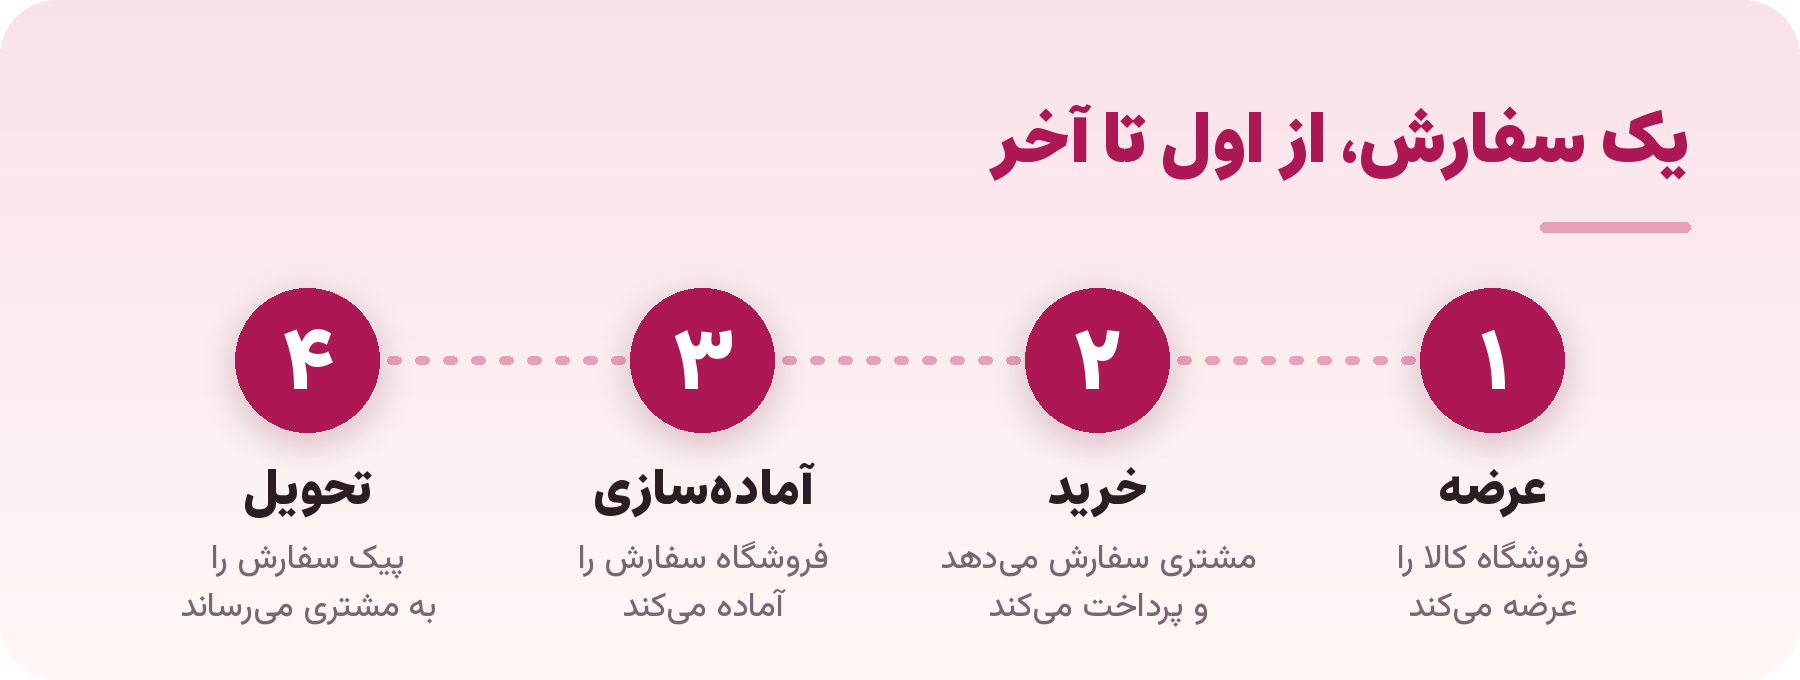
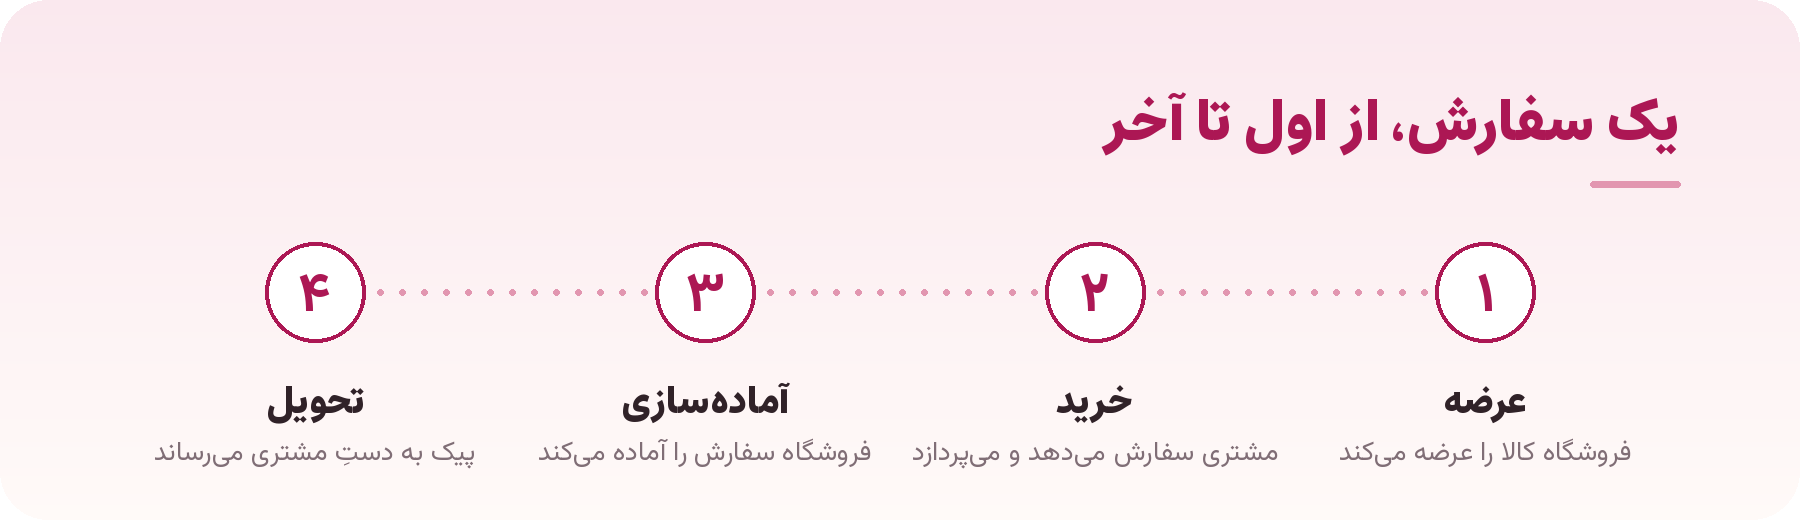
docs(profile): a slimmer, lighter design, shown a little smaller

diff --git a/profile/README.md b/profile/README.md
@@ -1,27 +1,24 @@
 <div align="center">
 
-<a href="https://digi-face.ir"><img src="https://raw.githubusercontent.com/digiface-ir/.github/main/profile/assets/hero.png" width="100%" alt="دیجیفیس — لوازم آرایشی و بهداشتی، از فروشگاههای شهرت تا درِ خانهات. Beauty and personal care, from the shops in your city to your door. digi-face.ir"></a>
+<a href="https://digi-face.ir"><img src="https://raw.githubusercontent.com/digiface-ir/.github/main/profile/assets/hero.png" width="88%" alt="دیجیفیس — لوازم آرایشی و بهداشتی، از فروشگاههای شهرت تا درِ خانهات. Beauty and personal care, from the shops in your city to your door. digi-face.ir"></a>
 
 <br><br>
 
-<img src="https://raw.githubusercontent.com/digiface-ir/.github/main/profile/assets/about.png" width="100%" alt="دیجیفیس چیست؟ بازار آنلاینِ لوازم آرایشی و بهداشتی: فروشگاهها کالاهایشان را عرضه میکنند، مشتری از فروشگاههای شهرِ خودش میخرد و پیکِ دیجیفیس سفارش را به دستش میرساند. ۰۱ برای مشتری، ۰۲ برای فروشگاه، ۰۳ برای پیک، ۰۴ جشنوارهها و باکسها.">
+<img src="https://raw.githubusercontent.com/digiface-ir/.github/main/profile/assets/about.png" width="88%" alt="دیجیفیس چیست؟ بازار آنلاینِ لوازم آرایشی و بهداشتی: فروشگاهها کالاهایشان را عرضه میکنند، مشتری از فروشگاههای شهرِ خودش میخرد و پیکِ دیجیفیس سفارش را به دستش میرساند. ۰۱ برای مشتری، ۰۲ برای فروشگاه، ۰۳ برای پیک، ۰۴ جشنوارهها و باکسها.">
 
 <br><br>
 
-<img src="https://raw.githubusercontent.com/digiface-ir/.github/main/profile/assets/flow.png" width="100%" alt="یک سفارش، از اول تا آخر: ۱ عرضه، ۲ خرید، ۳ آمادهسازی، ۴ تحویل.">
+<img src="https://raw.githubusercontent.com/digiface-ir/.github/main/profile/assets/flow.png" width="88%" alt="یک سفارش، از اول تا آخر: ۱ عرضه، ۲ خرید، ۳ آمادهسازی، ۴ تحویل.">
 
 <br><br>
 
-<img src="https://img.shields.io/badge/TypeScript-3178C6?style=for-the-badge&logo=typescript&logoColor=white" alt="TypeScript">
-<img src="https://img.shields.io/badge/NestJS-E0234E?style=for-the-badge&logo=nestjs&logoColor=white" alt="NestJS">
-<img src="https://img.shields.io/badge/Next.js-000000?style=for-the-badge&logo=nextdotjs&logoColor=white" alt="Next.js">
-<img src="https://img.shields.io/badge/React-087EA4?style=for-the-badge&logo=react&logoColor=white" alt="React">
-<img src="https://img.shields.io/badge/PostgreSQL-4169E1?style=for-the-badge&logo=postgresql&logoColor=white" alt="PostgreSQL">
-<img src="https://img.shields.io/badge/Redis-DC382D?style=for-the-badge&logo=redis&logoColor=white" alt="Redis">
-<img src="https://img.shields.io/badge/Docker-2496ED?style=for-the-badge&logo=docker&logoColor=white" alt="Docker">
+<img src="https://img.shields.io/badge/TypeScript-3178C6?style=flat-square&logo=typescript&logoColor=white" alt="TypeScript">
+<img src="https://img.shields.io/badge/NestJS-E0234E?style=flat-square&logo=nestjs&logoColor=white" alt="NestJS">
+<img src="https://img.shields.io/badge/Next.js-000000?style=flat-square&logo=nextdotjs&logoColor=white" alt="Next.js">
+<img src="https://img.shields.io/badge/React-087EA4?style=flat-square&logo=react&logoColor=white" alt="React">
+<img src="https://img.shields.io/badge/PostgreSQL-4169E1?style=flat-square&logo=postgresql&logoColor=white" alt="PostgreSQL">
+<img src="https://img.shields.io/badge/Redis-DC382D?style=flat-square&logo=redis&logoColor=white" alt="Redis">
+<img src="https://img.shields.io/badge/Docker-2496ED?style=flat-square&logo=docker&logoColor=white" alt="Docker">
 
-<br><br>
-
-<a href="https://digi-face.ir"><img src="https://img.shields.io/badge/digi--face.ir-AC1754?style=for-the-badge&logo=googlechrome&logoColor=white" alt="digi-face.ir"></a>
 
 </div>
